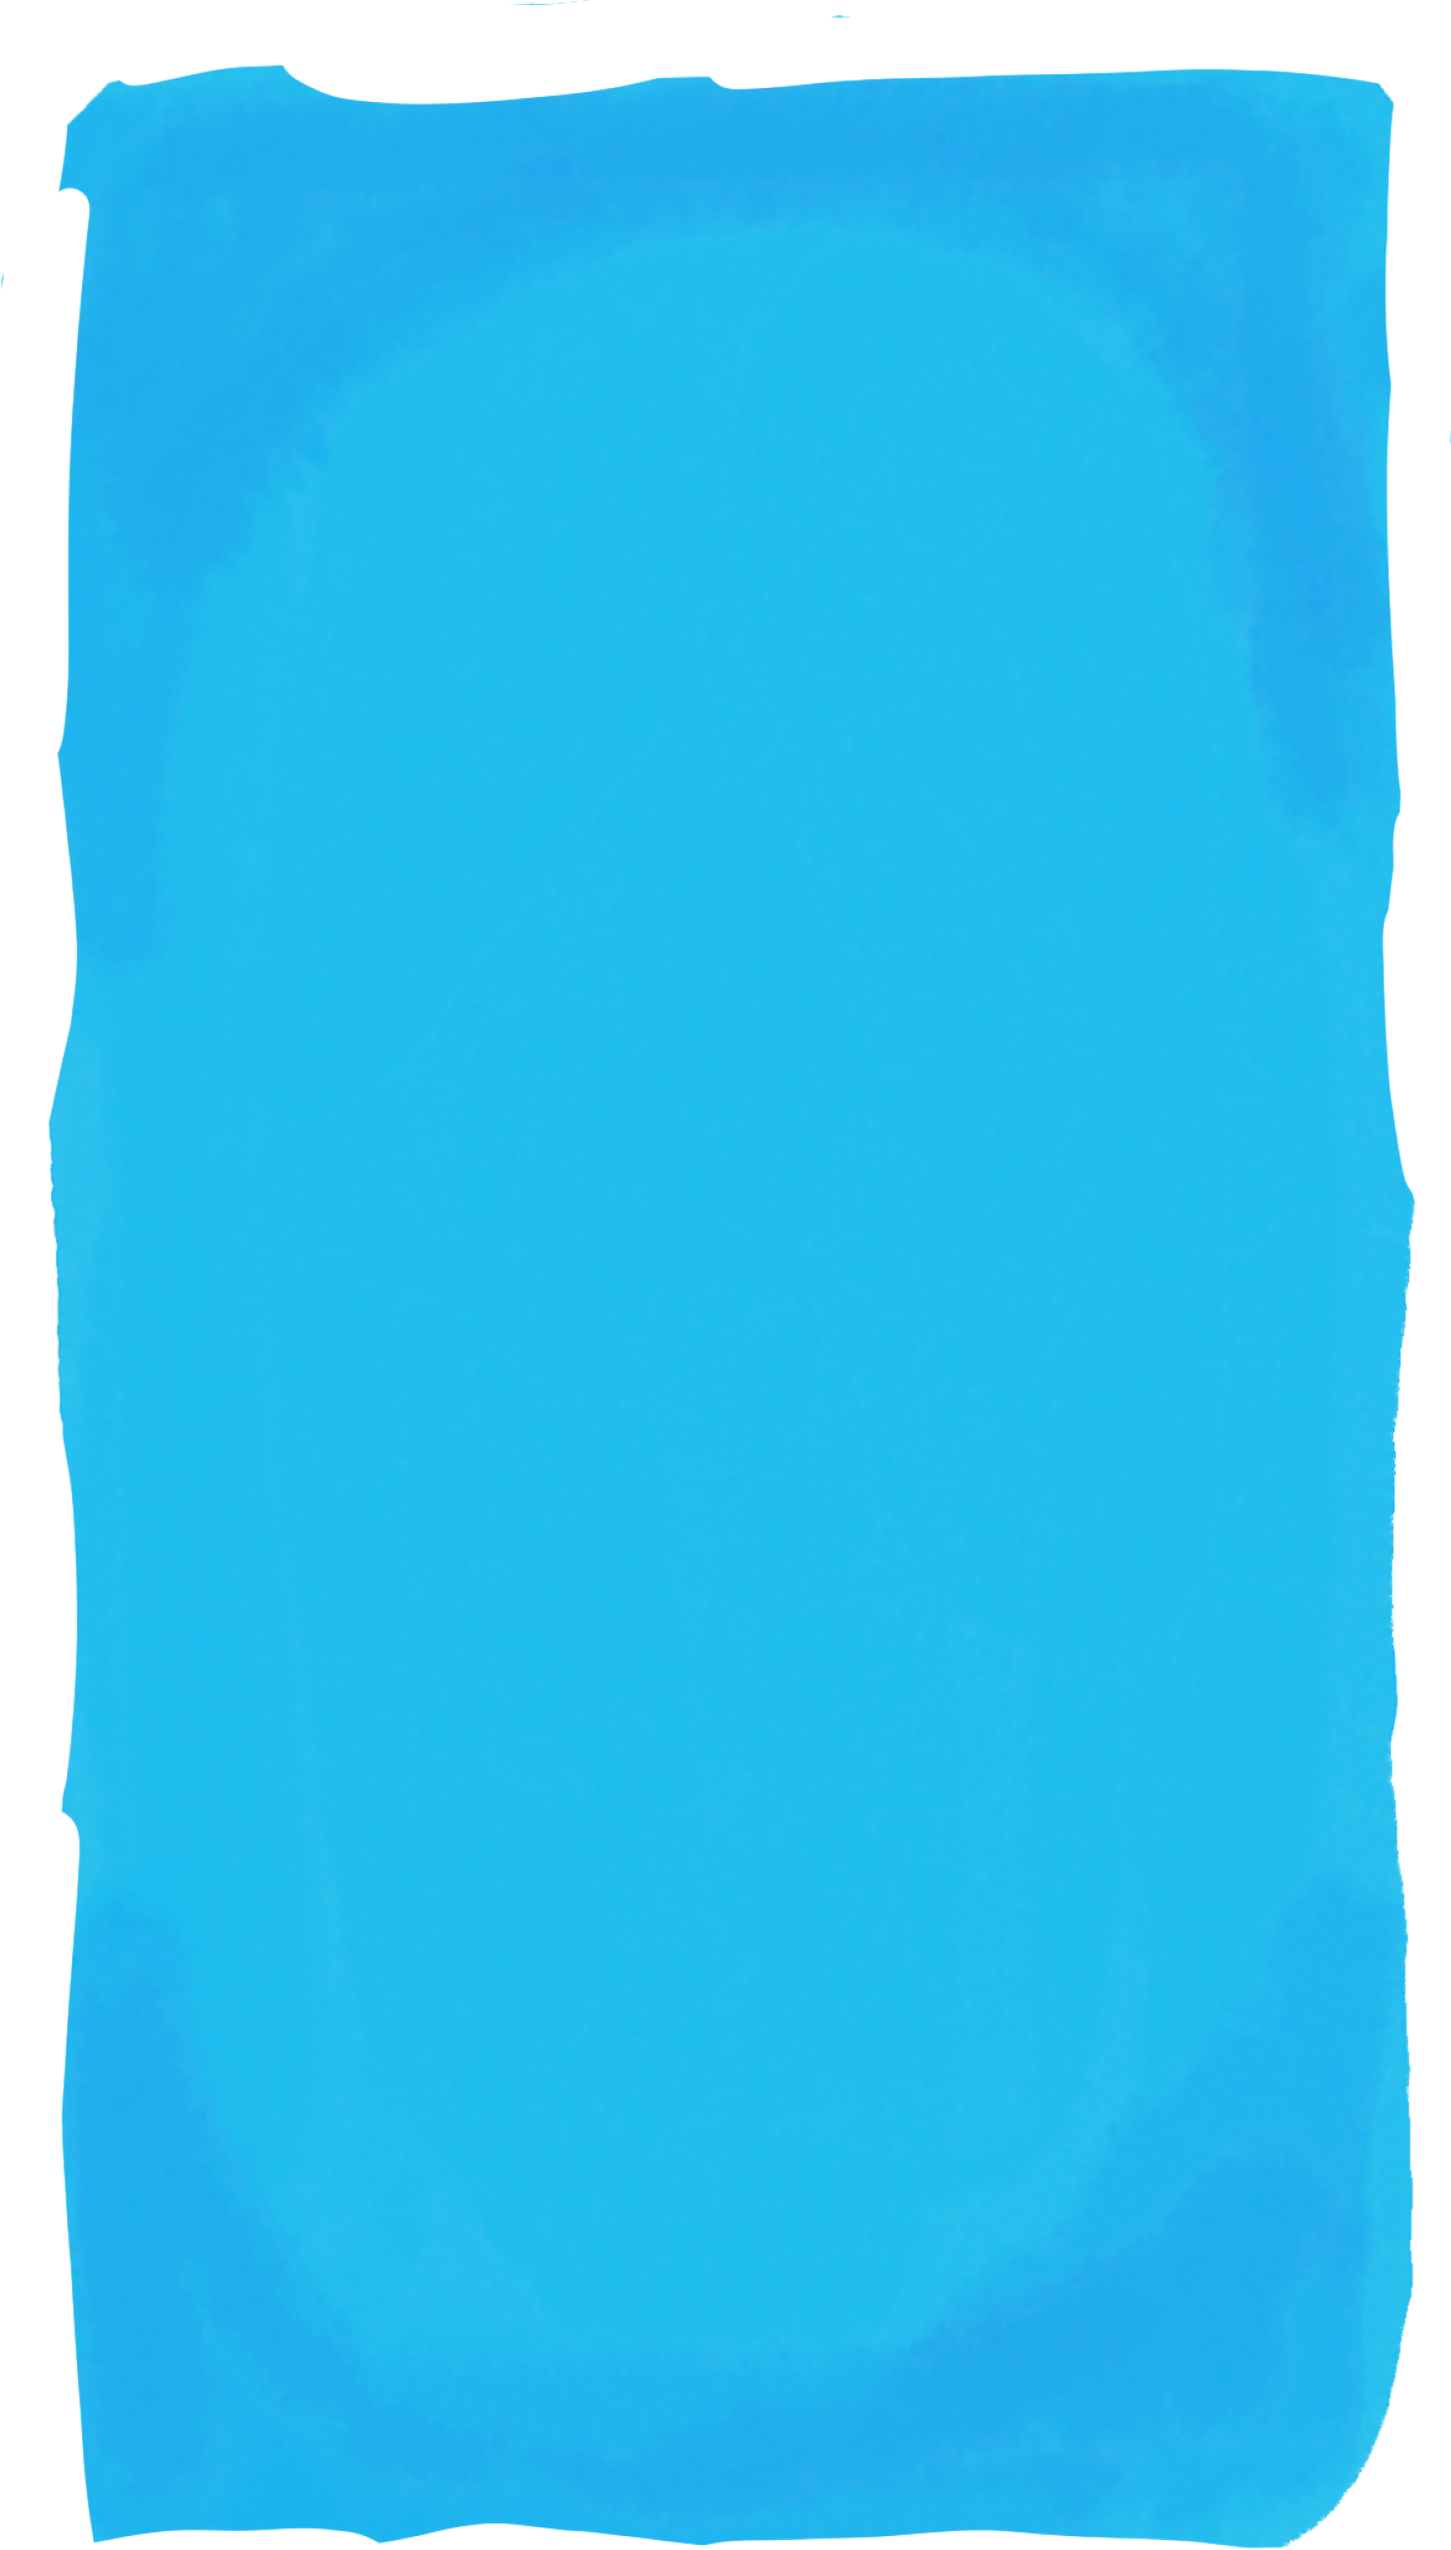
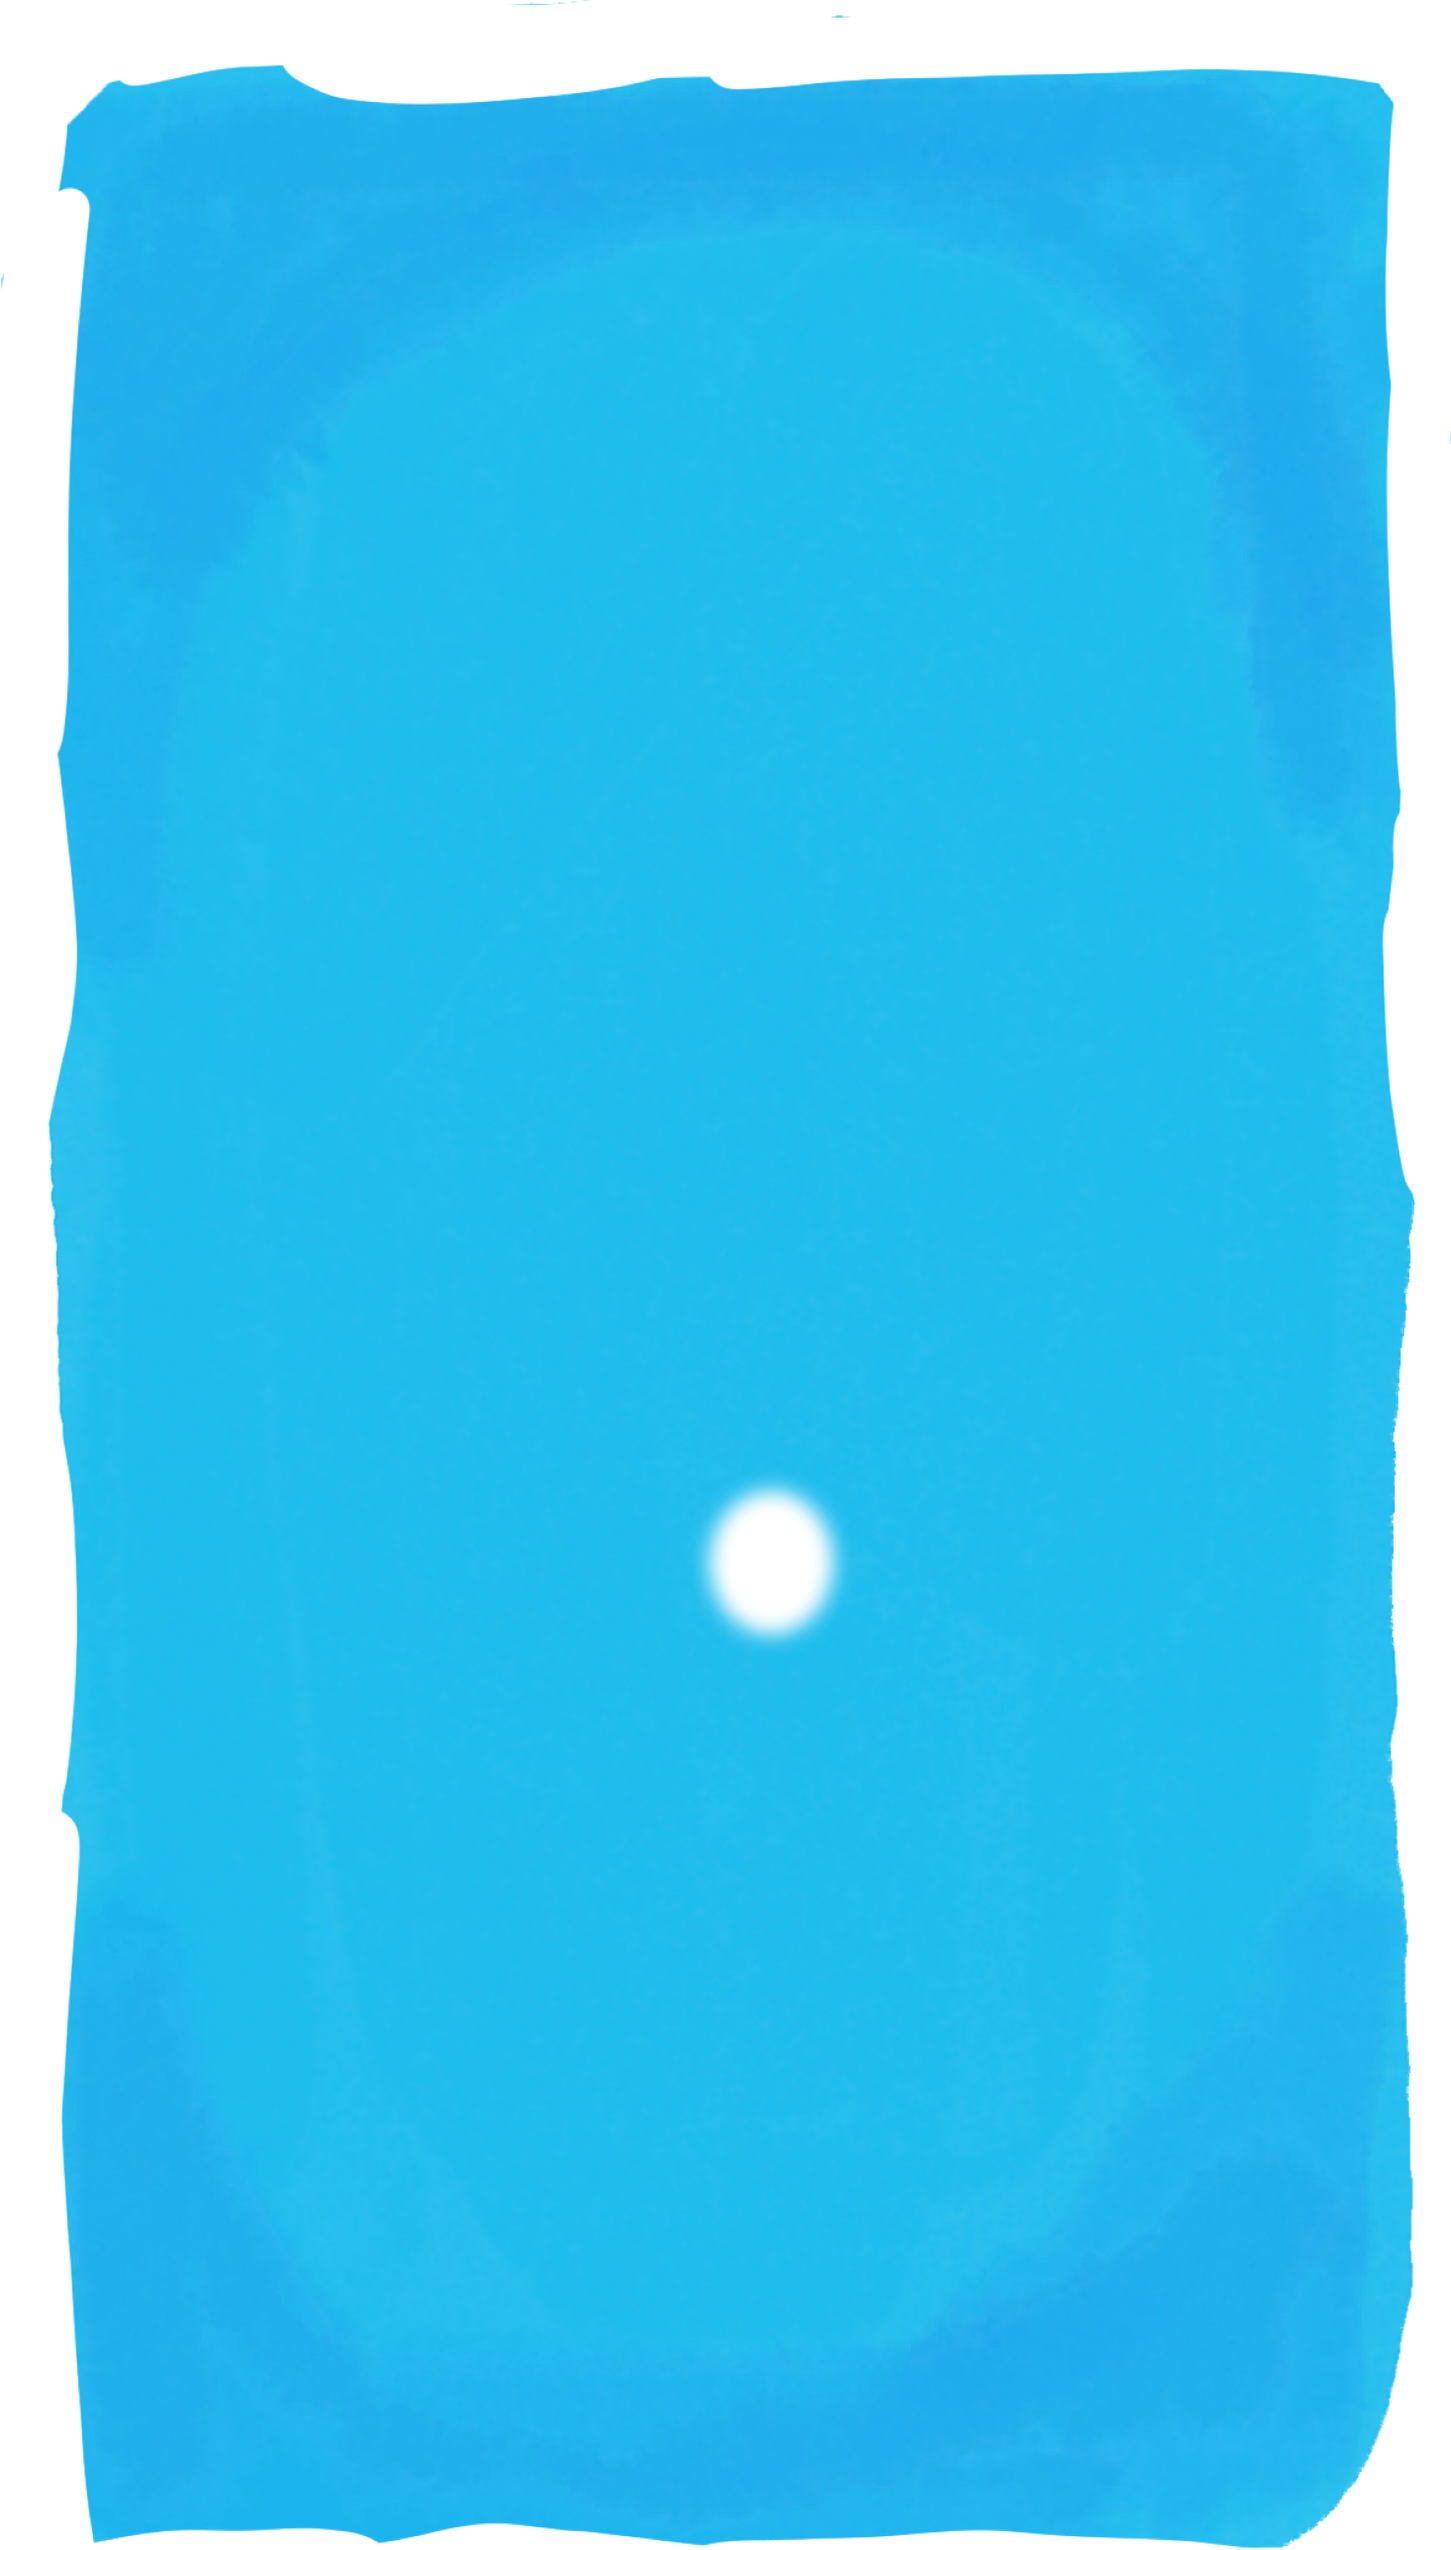
Rebuild section-1->2 transition as a scaling foreground, not an expanding hole
The previous clip-path-circle approach was conceptually backwards: it grew
an independent circular window to reveal section-2, rather than making the
camera feel like it's moving forward through the tunnel. Per feedback and
reference screenshots, rebuilt it as two full-screen layers in the pinned
section: section-2 is now a completely static background, and section-1 is
one foreground layer that scales up from 1x via transform: scale(),
pivoted on the tunnel graphic's real vanishing-point opening. As it scales,
the whole foreground composition (rings, clouds, title, cherubs, runway,
sign) is carried out past the viewport edges together, and the opening
just grows because it's part of that one layer — nothing is animated
independently.

Found the true pivot point by flood-filling heart-tunnel.webp's alpha
channel from its visual center, isolating the actual enclosed opening from
the transparent padding around the rest of the artwork (49.9%/61.9% of the
viewport, vs. an earlier rougher estimate).

Also fixes a second layering bug this rebuild surfaced: bg-blue.webp
(section-1's own sky, sitting behind the tunnel graphic but still in front
of section-2) is a flattened image with no transparency of its own, so it
was opaquely blocking the reveal right at the opening. Punched a matching
soft-edged hole into its alpha channel at the same spot so section-2
genuinely shows through from the very start of the scroll, as intended.

Changed region(s): [[0.4604, 0.559, 0.5832, 0.6522]]

diff --git a/styles.css b/styles.css
@@ -61,9 +61,33 @@ html, body {
 }
 
 /* ---------- Section 1 -> Section 2 scroll-pinned reveal transition ---------- */
-/* 300vh total = section-1's own 100vh + 100vh driving the reveal-hole growth
-   (--reveal-radius, set by script.js from scroll position) + 100vh of resting
-   time for section-2 once fully revealed, before section-3 continues normally. */
+/* 300vh total = section-1's own 100vh + 100vh driving the tunnel push-through
+   (--tunnel-scale, set by script.js from scroll position) + 100vh of resting
+   time for section-2 once fully revealed, before section-3 continues normally.
+
+   Camera-through-a-doorway effect: section-2 is a completely static
+   full-screen background layer (z-index 1, no animation of its own).
+   Section-1 is the foreground (z-index 2) and scales up from 1x via a real
+   transform: scale(), pivoting on the tunnel graphic's actual vanishing-point
+   opening (49.9%/61.9% of the viewport — found by flood-filling the
+   heart-tunnel.webp alpha channel from its visual center to isolate just the
+   enclosed transparent hole at the end of the tunnel, as opposed to the
+   transparent padding around the whole artwork). As the foreground scales
+   around that pivot, the opening grows along with everything else and the
+   rest of the artwork (rings, clouds, title, cherubs) is carried outward past
+   the viewport edges — the opening isn't animated independently, it just
+   grows because it's part of the one scaling layer.
+   For section-2 to actually show through that opening, nothing in section-1
+   can be opaque there: .section-frame's and .hero-section's background
+   colors are overridden to transparent below, and bg-blue.webp (section-1's
+   own sky, which sits behind the tunnel graphic but still in front of
+   section-2) had a matching soft-edged hole punched into its alpha channel
+   at the same spot — it's a flattened rectangle with no transparency of its
+   own, so without that punch it opaquely blocked the reveal.
+   (An earlier attempt animated an independent circular clip-path/mask
+   instead — visually similar at a glance, but semantically backwards from
+   "one foreground layer physically moving toward the camera," per feedback,
+   and the SVG <mask> version of it didn't even render on Safari.) */
 .tunnel-transition {
   position: relative;
   width: 100%;
@@ -83,33 +107,26 @@ html, body {
   inset: 0;
 }
 
-/* section-2 is the front layer, clipped to a growing circle centered on
-   section-1's tunnel graphic's actual vanishing-point opening (verified via
-   its alpha channel — 55.2%/60.4% is that point's position as a fraction of
-   section-1's 402x871 canvas). At rest the circle is tiny, so section-2 is
-   invisible outside that pinpoint and section-1 (the plain, un-clipped back
-   layer) shows normally; growing the circle progressively reveals more of
-   section-2 while covering more of section-1 in the same stroke — clip-path
-   affects the whole element (including its own background), so there's no
-   separate opaque layer left over to block the reveal.
-   (Previous attempt used an SVG <mask> element referenced via url(#id) to
-   punch an actual hole in section-1 — semantically the more direct approach,
-   but it silently didn't render at all on Safari, leaving section-1
-   permanently opaque. This clip-path technique needs no such external
-   reference, just this one property.) */
 .tunnel-layer-front {
   z-index: 2;
-  clip-path: circle(var(--reveal-radius, 8px) at 55.2% 60.4%);
-  -webkit-clip-path: circle(var(--reveal-radius, 8px) at 55.2% 60.4%);
+  background: transparent;
+  transform-origin: 49.9% 61.9%;
+  transform: scale(var(--tunnel-scale, 1));
+  will-change: transform;
 }
 
 .tunnel-layer-back {
   z-index: 1;
 }
 
-#heart-hole-path {
-  transform-origin: 12px 11px;
-  transform: scale(var(--reveal-scale, 1));
+/* Section-1's own backgrounds would otherwise sit opaque behind the tunnel
+   artwork's transparent opening, blocking section-2 from showing through. */
+.tunnel-layer-front.section-frame {
+  background-color: transparent;
+}
+
+.hero-illustrated {
+  background: transparent;
 }
 
 .hd2-bg {

diff --git a/script.js b/script.js
@@ -13,34 +13,42 @@ const observer = new IntersectionObserver(
 
 sections.forEach((section) => observer.observe(section));
 
-// Section-1 -> section-2 scroll-pinned reveal: section-2 (the front layer,
-// see .tunnel-layer-front's clip-path in styles.css) is clipped to a growing
-// circle as the user scrolls through .tunnel-transition, so it progressively
-// covers more of section-1 (the plain, un-clipped back layer) underneath.
+// Section-1 -> section-2 "camera through a doorway": section-1 (the
+// foreground, see .tunnel-layer-front in styles.css) scales up from 1x,
+// pivoting on the tunnel's real transparent opening, so it carries its own
+// artwork out past the viewport edges while section-2 (the plain, static
+// back layer) sits fully still underneath, gradually exposed through that
+// one real opening as the foreground grows past it.
 const tunnelTransition = document.querySelector('.tunnel-transition');
 
 if (tunnelTransition) {
-  const REVEAL_FRACTION = 0.5; // the circle grows over the first half of the pinned scroll range
-  const MIN_RADIUS = 8; // px, roughly matches the tunnel graphic's own tiny opening
+  const SCALE_FRACTION = 0.5; // the foreground scales up over the first half of the pinned scroll range
+  // The tunnel's own opening is only a few px wide at rest, so reaching a
+  // scale where it covers the whole screen takes a large factor. Computed
+  // from the viewport's diagonal (not hardcoded) so it holds up at any
+  // screen size; OPENING_RADIUS_PX is a rough estimate of the opening's
+  // rendered radius at 1x — tune this (or the pacing below) once you've
+  // seen the effect in motion.
+  const OPENING_RADIUS_PX = 14;
 
-  const updateTunnelReveal = () => {
+  const updateTunnelScale = () => {
     const extraScrollable = tunnelTransition.offsetHeight - window.innerHeight;
     if (extraScrollable <= 0) return;
 
     const scrolledIntoWrapper = -tunnelTransition.getBoundingClientRect().top;
     const fraction = Math.min(1, Math.max(0, scrolledIntoWrapper / extraScrollable));
-    const revealProgress = Math.min(1, fraction / REVEAL_FRACTION);
-    // A bit more than the viewport's own diagonal guarantees full coverage
-    // regardless of screen size, however off-center the circle's origin is.
-    const maxRadius = Math.hypot(window.innerWidth, window.innerHeight) * 1.05;
-    const radius = MIN_RADIUS + revealProgress * (maxRadius - MIN_RADIUS);
+    const progress = Math.min(1, fraction / SCALE_FRACTION);
 
-    tunnelTransition.style.setProperty('--reveal-radius', `${radius}px`);
+    const viewportDiagonal = Math.hypot(window.innerWidth, window.innerHeight);
+    const maxScale = (viewportDiagonal * 1.1) / OPENING_RADIUS_PX;
+    const scale = 1 + progress * (maxScale - 1);
+
+    tunnelTransition.style.setProperty('--tunnel-scale', scale);
   };
 
-  window.addEventListener('scroll', updateTunnelReveal, { passive: true });
-  window.addEventListener('resize', updateTunnelReveal);
-  updateTunnelReveal();
+  window.addEventListener('scroll', updateTunnelScale, { passive: true });
+  window.addEventListener('resize', updateTunnelScale);
+  updateTunnelScale();
 }
 
 // "Enter the tunnel" smooth-scrolls through the whole reveal transition,

diff --git a/index.html b/index.html
@@ -9,15 +9,18 @@
 <body>
   <main id="scrolly">
 
-    <!-- Section 1 -> Section 2 scroll-pinned reveal transition.
-         section-1 stays sticky-pinned while the heart-shaped mask hole grows,
-         exposing section-2 (lower z-index) behind it; section-2 then gets its
-         own resting scroll time before section-3 continues normally. -->
+    <!-- Section 1 -> Section 2 scroll-pinned "camera through a doorway" transition.
+         section-2 is a completely static full-screen background layer. section-1
+         is the foreground, scaling up from 1x pivoted on the tunnel's actual
+         transparent opening, carrying the rest of its artwork out past the
+         viewport edges as it grows — section-2 was there the whole time, just
+         hidden behind the (until-now opaque-looking) foreground. Section-2 then
+         gets its own resting scroll time before section-3 continues normally. -->
     <div class="tunnel-transition">
       <div class="tunnel-pin">
 
         <!-- Section 1: heart-director-2 (Figma node 1098:2), illustrated hero intro -->
-        <section id="section-1" class="section-frame tunnel-layer tunnel-layer-back">
+        <section id="section-1" class="section-frame tunnel-layer tunnel-layer-front">
           <div class="hero-section hero-illustrated">
             <h1 class="visually-hidden">
               Introducing Laindoe Love — The Heart Director. Revealing the invisible.
@@ -45,7 +48,7 @@
         </section>
 
         <!-- Section 2: heart-director-page2 (Figma node 1102:2) -->
-        <section id="section-2" class="section-frame section-frame-2 tunnel-layer tunnel-layer-front">
+        <section id="section-2" class="section-frame section-frame-2 tunnel-layer tunnel-layer-back">
           <div class="hero-section hero-section-2">
             <h1 class="visually-hidden">Meet Lain Doe Love. Tap the heart to peek inside.</h1>
 
